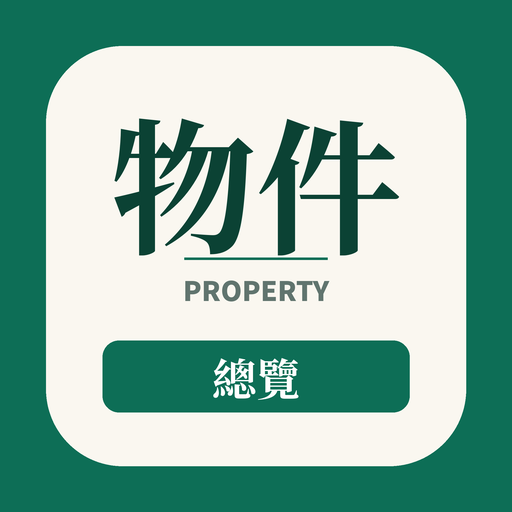
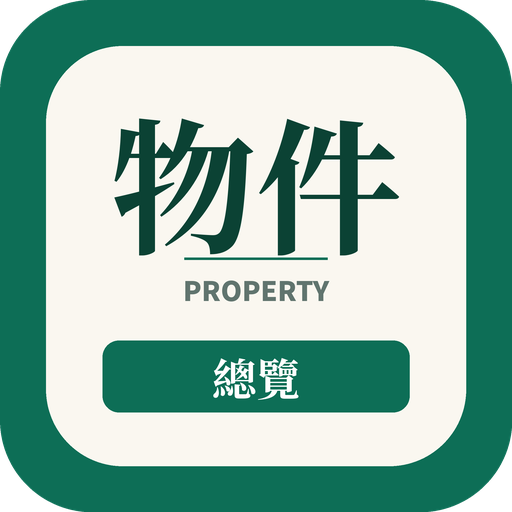
Add files via upload

diff --git a/index.html b/index.html
@@ -4,9 +4,9 @@
 <meta charset="UTF-8">
 <meta name="viewport" content="width=device-width, initial-scale=1.0">
 <title>物件總覽</title>
-<link rel="icon" type="image/png" href="icon-192.png?v=3">
-<link rel="apple-touch-icon" href="icon-180.png?v=3">
[1 lines of base64/hex data omitted]
+<link rel="icon" type="image/png" href="icon-192.png?v=4">
+<link rel="apple-touch-icon" href="icon-180.png?v=4">
[1 lines of base64/hex data omitted]
 <meta name="theme-color" content="#0F7A5F">
 <meta name="apple-mobile-web-app-capable" content="yes">
 <meta name="mobile-web-app-capable" content="yes">
@@ -950,7 +950,7 @@
 </div>
 
 <script>
-const APP_VERSION = "2026.07.04 p";
+const APP_VERSION = "2026.07.04 q";
 // ---- Seed data (示範資料;實際資料請用「設定→匯入備份檔」或雲端同步帶入) ----
 const SEED = [
   {name:"示範社區・A棟／3F", cat:"大樓", layout:"322", addr:"台中市西屯區示範路一段 100 號", floor:"3/14", price:1288, due:"[phone redacted]", agent:"王小明", tel:"[phone redacted]", store:"示範門市（範例資料）", url591:"", urlLeju:"", urlI:""},